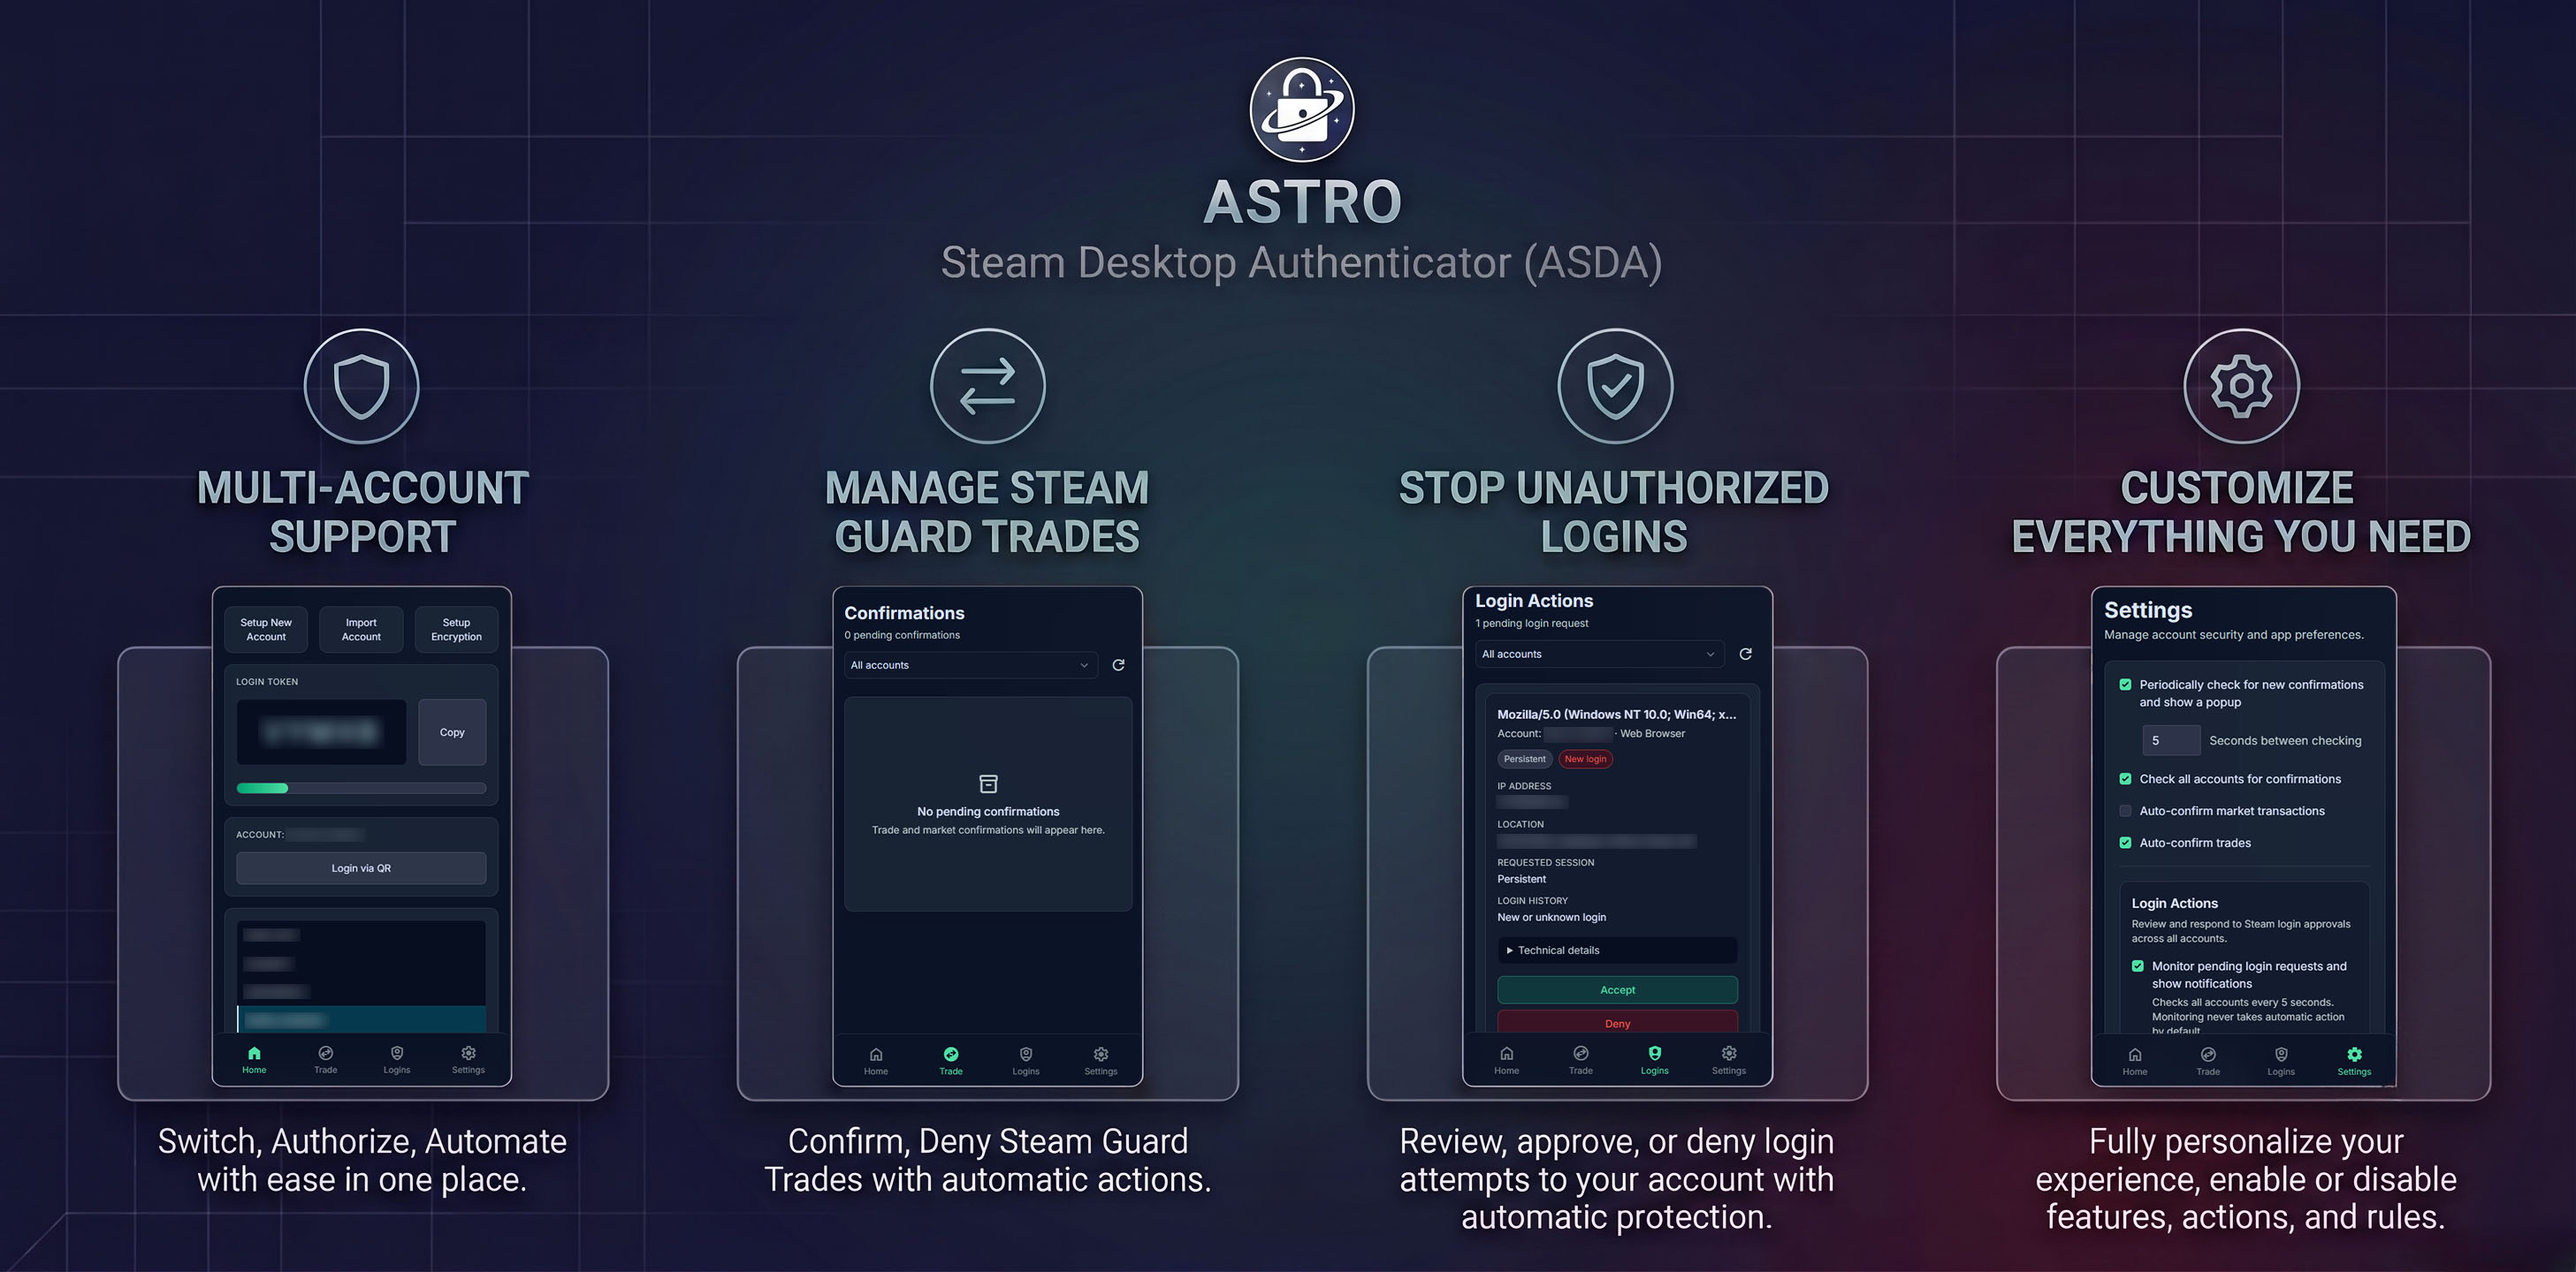
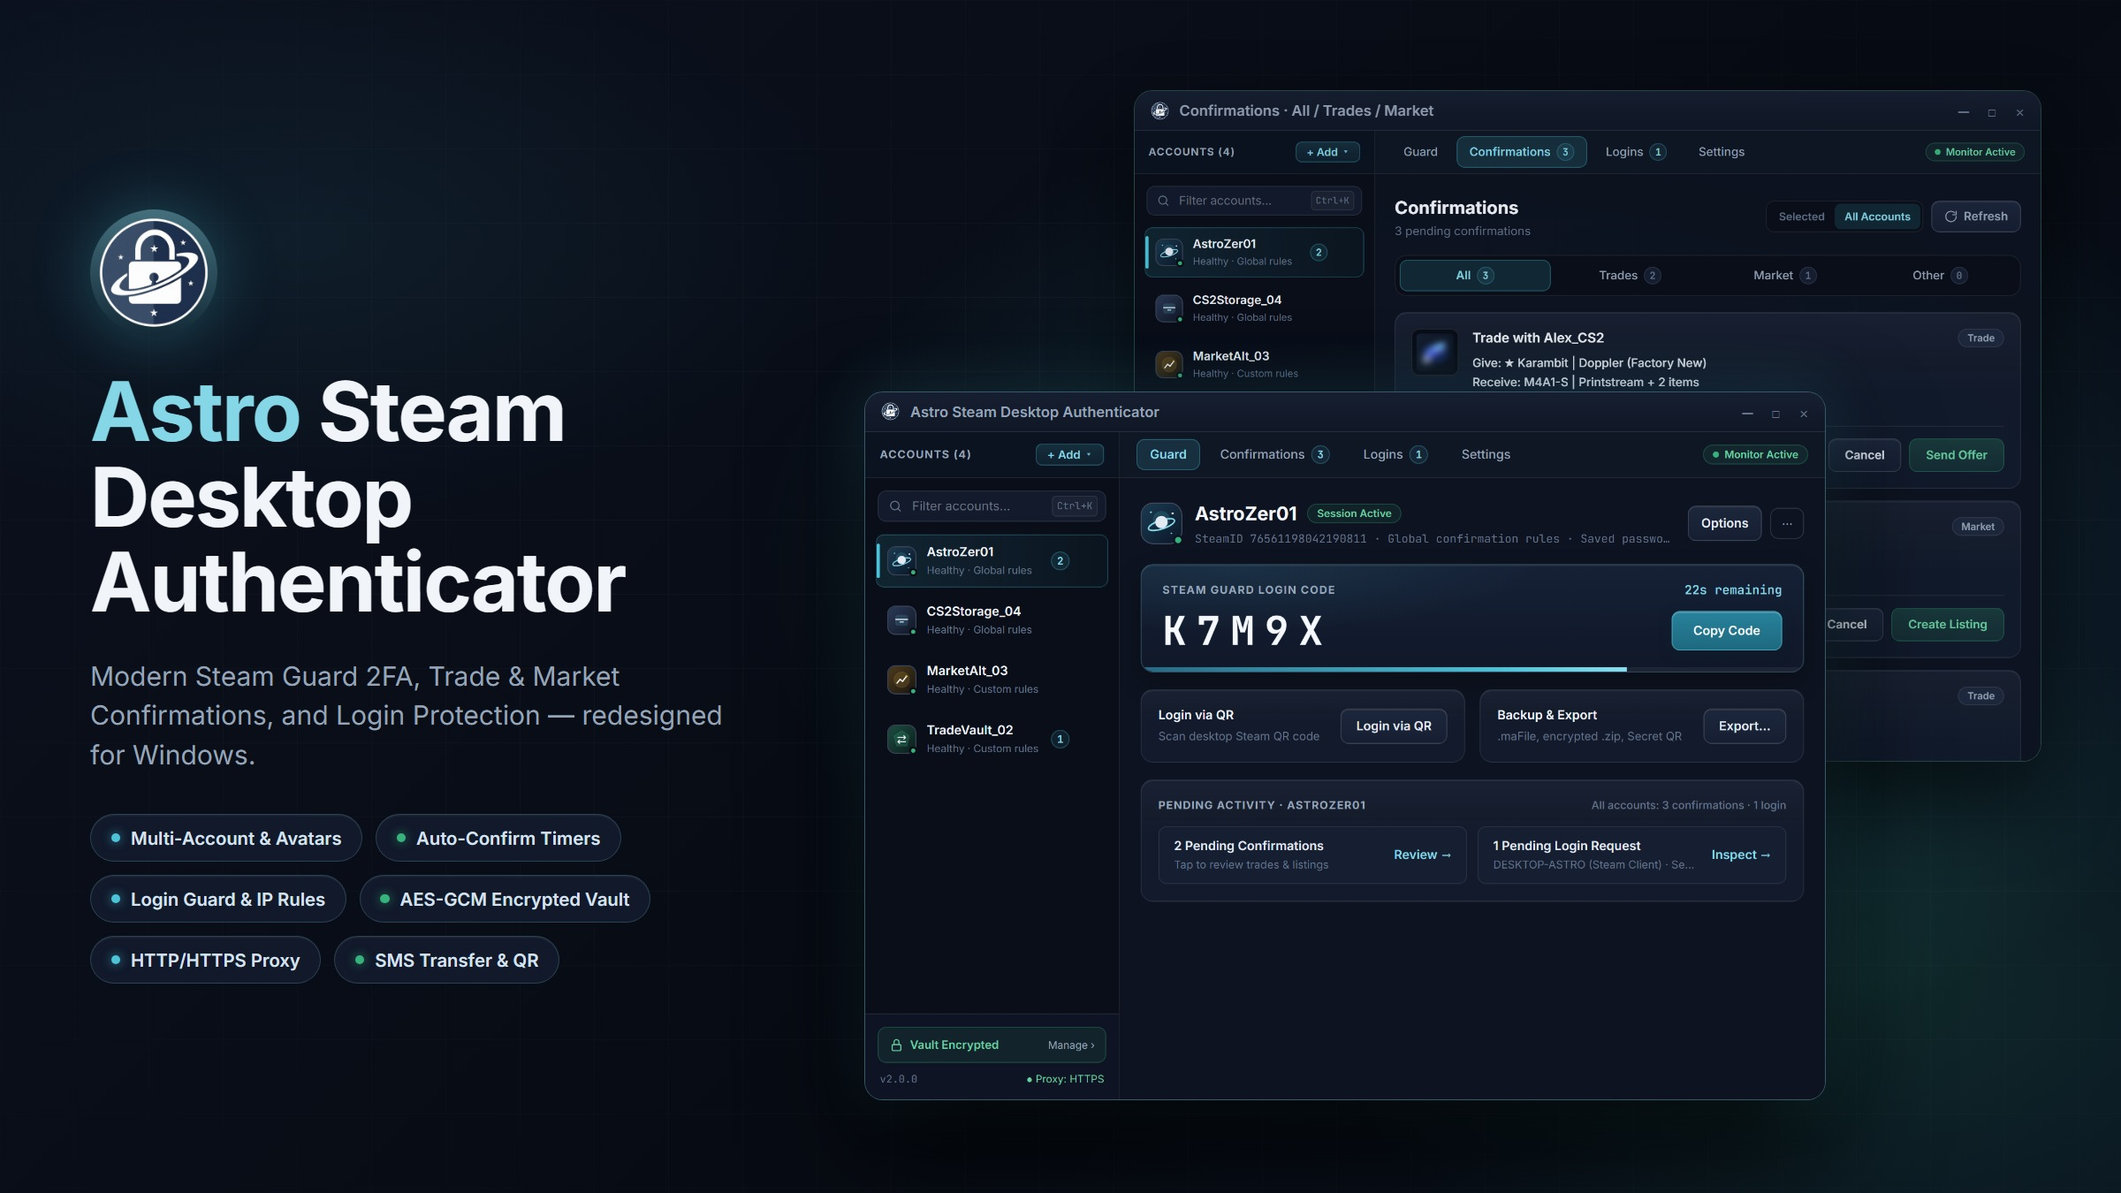
chore: prepare 2.0.0 release (#74)

diff --git a/Steam Desktop Authenticator/Properties/AssemblyInfo.cs b/Steam Desktop Authenticator/Properties/AssemblyInfo.cs
@@ -31,8 +31,8 @@ using System.Runtime.InteropServices;
 //
 // You can specify all the values or you can default the Build and Revision Numbers 
 // by using the '*' as shown below:
-[assembly: AssemblyVersion("1.4.0")]
-[assembly: AssemblyFileVersion("1.4.0")]
+[assembly: AssemblyVersion("2.0.0")]
+[assembly: AssemblyFileVersion("2.0.0")]
 
 [assembly: AssemblyMetadata("SquirrelAwareVersion", "1")]
 [assembly: System.Runtime.Versioning.SupportedOSPlatform("windows7.0")]

diff --git a/README.md b/README.md
@@ -1,11 +1,11 @@
 <h1 align="center">
-  <img src="ASDA-icon.png" height="64" width="64" />
+  <img src="ASDA-icon.png" height="64" width="64" alt="Astro Steam Desktop Authenticator Icon" />
   <br/>
   Astro Steam Desktop Authenticator
 </h1>
 
 <p align="center">
-  A modernized, actively maintained continuation of the Steam Desktop Authenticator app. Manage your Steam Guard 2FA, trade confirmations, and secure your account right from your desktop.
+  A modernized, actively maintained continuation of Steam Desktop Authenticator for Windows. Manage Steam Guard 2FA codes, Trade &amp; Market confirmations, login approvals, and multi-account automation right from your desktop.
 </p>
 
 <p align="center">
@@ -29,77 +29,105 @@
   <img src="github-banner.jpg" alt="Astro Steam Desktop Authenticator" />
 </p>
 
-## About This Project
-This is a continuation of the original [Steam Desktop Authenticator](https://github.com/Jessecar96/SteamDesktopAuthenticator) created by **Jessecar96**. Astro Steam Desktop Authenticator is an actively maintained fork that serves to keep the desktop authenticator tool functional, secure, and compatible with Steam's modern API changes. 
+---
 
-A reliable way to manage **Steam Guard**, handle **2FA (Two-Factor Authentication)**, and automatically accept or decline **trade confirmations** directly on you're pc without using a mobile phone.
-All credit for the original design and implementation goes to Jessecar96 and the original contributors.
+## About This Project
+
+**Astro Steam Desktop Authenticator (ASDA)** is an actively maintained continuation of the original [Steam Desktop Authenticator](https://github.com/Jessecar96/SteamDesktopAuthenticator) created by **Jessecar96**. It keeps the desktop authenticator functional, secure, and up to date with Steam's modern authentication and confirmation APIs.
+
+Manage **Steam Guard 2FA**, review or automate **Trade & Market confirmations**, and approve or deny **Steam login requests** directly on your PC without needing a mobile phone. All credit for the original design and foundation goes to Jessecar96 and the original contributors.
+
+---
 
 ## Key Features
 
-- **Steam Guard codes and account management** — view, copy, and manage Steam Guard authenticators for multiple accounts.
-- **Phone-free authenticator setup** — add an authenticator without entering a phone number when Steam allows it. If Steam requires phone verification for the account, the app clearly guides you through the email and SMS steps instead.
-- **Trade confirmations** — review and accept or decline pending confirmations across managed accounts.
-- **Login approvals** — review Steam login requests with device and location details, then approve or deny them manually. Optional account-wide rules can automatically approve persistent sign-ins or deny requests, with IP allowlisting controls.
-- **Proxy Support** — Use proxy when communicating with steam.
-- **Desktop notifications** — receive Windows notifications for pending trade confirmations and login requests, with navigation back to the relevant view.
+- **Redesigned Desktop Interface & Steam Avatars** — Modern slate-navy & glacier-teal desktop UI with a resizable split-pane layout, persistent multi-account sidebar with cached Steam profile avatars, quick `Ctrl+K` account filtering, compact mode, and a cascading system tray account switcher.
+- **Steam Guard 2FA & Account Management** — Generate, copy, and manage Steam Guard codes for multiple accounts, with vault encryption, session health indicators, and seamless expired-session renewal.
+- **Phone-Free Setup & SMS Authenticator Transfer** — Set up a new authenticator without a phone number when Steam allows it (with guided email/SMS steps when required), or transfer an existing Steam Guard Mobile Authenticator into ASDA via SMS with crash-safe recovery.
+- **Trade & Market Confirmations** — Filter confirmations across **All**, **Trades**, and **Market** tabs with framed Steam item thumbnails, non-blocking refresh, and configurable **per-account auto-confirm timers** backed by a progressive rate-limit-aware scheduler.
+- **Login Approvals & Protection Rules** — Review incoming Steam login requests with device, IP, and location details, then approve or deny manually or via automatic account rules with IP allowlisting.
+- **Opt-In Silent Re-Login & Encrypted Vault** — Store credentials in an opt-in AES-GCM encrypted store to automatically renew expired Steam sessions in the background, and rely on crash-safe, single-transaction canonical `.maFile` storage.
+- **Backup & Secret QR Export** — Export account backups and view/export authenticator secrets via a native QR dialog, plus tokenless `.maFile` import support.
+- **Proxy Support** — Route Steam and avatar traffic through HTTP or HTTPS proxies (with optional authentication, IPv6 support, and built-in proxy testing).
+- **Desktop Notifications & Update Checks** — Receive Windows notifications for pending confirmations and login requests, with optional automatic or manual update checks in Settings.
 
-## Version 1.3.0 Highlights
+---
 
-- **Reliable session recovery** - Renew expired Steam sessions without losing the account or its maFile.
-- **Safer account storage** - Stronger import, storage, and recovery safeguards help protect account data.
-- **Smoother multi-account use** - A cleaner scrollable account list and more dependable trade confirmations and login approvals.
+## Quick Start (Recommended)
 
-For a complete list of changes, see the [1.3.0 release notes](https://github.com/AstroZer01/Astro-Steam-Desktop-Authenticator/releases/tag/1.3.0).
+If you just want to run ASDA without compiling from source:
 
-## Build from Source on Windows
+1. Download the latest `ASDA-Release-*.zip` from the [**Releases page**](https://github.com/AstroZer01/Astro-Steam-Desktop-Authenticator/releases/latest).
+2. Extract the archive to a writable folder on your PC (avoid `Program Files`).
+3. Run `Steam Desktop Authenticator.exe`.
 
-The committed UI assets are included in a normal .NET publish, so Node.js is not required for an ordinary release build.
+> **Runtime requirements:** Windows 10 or 11 (64-bit), the [.NET 8 Desktop Runtime](https://dotnet.microsoft.com/download/dotnet/8.0), and the [Microsoft Edge WebView2 Runtime](https://developer.microsoft.com/microsoft-edge/webview2/#download-section) (pre-installed on Windows 11).
+
+---
+
+## Build from Source (Windows)
+
+The compiled UI stylesheet and fonts are committed to the repository, so **Node.js is not required** for a standard release build.
 
 ### Prerequisites
 
-- Windows 10 or later, 64-bit
+- **Windows 10 or 11 (64-bit)**
 - **[.NET 8 SDK](https://dotnet.microsoft.com/download/dotnet/8.0)**
+- **[Microsoft Edge WebView2 Runtime](https://developer.microsoft.com/microsoft-edge/webview2/#download-section)** (already included on Windows 11)
 
-To run the built application, install the .NET 8 Desktop Runtime if the SDK is not installed, and install the [Microsoft Edge WebView2 Runtime](https://developer.microsoft.com/microsoft-edge/webview2/#download-section).
+### Quick Build (Command Line)
 
-### Build a release package from Command Prompt
-
-1. Clone the repository and open the cloned folder:
+1. **Clone the repository:**
 
    ```powershell
    git clone https://github.com/AstroZer01/Astro-Steam-Desktop-Authenticator.git
    cd Astro-Steam-Desktop-Authenticator
    ```
 
-2. From the repository root, run this command in Command Prompt:
+2. **Publish the portable release package:**
 
-   ```bat
-   dotnet publish "Launcher\Launcher.csproj" -c Release -r win-x64 --self-contained false -p:PublishSingleFile=true -p:IncludeNativeLibrariesForSelfExtract=false -p:PublishTrimmed=false -p:EnableCompressionInSingleFile=false -p:DebugSymbols=false -o "publish\ASDA"
+   ```powershell
+   dotnet publish "Launcher\Launcher.csproj" -c Release -r win-x64 --self-contained false `
+     -p:PublishSingleFile=true -p:IncludeNativeLibrariesForSelfExtract=false `
+     -p:PublishTrimmed=false -p:EnableCompressionInSingleFile=false `
+     -p:DebugSymbols=false -o "publish\ASDA"
    ```
 
-   Close any copy of the app running from that folder before rebuilding so Windows can replace its executable. `dotnet publish` restores the required Windows x64 dependencies automatically and preserves an existing root `publish\ASDA\maFiles` folder.
+   *(Close any running instance from `publish\ASDA` before rebuilding. Existing `publish\ASDA\maFiles` data is preserved.)*
 
-3. When `dotnet publish` completes successfully, start:
+3. **Launch the app:**
 
-   ```text
-   publish\ASDA\Steam Desktop Authenticator.exe
+   ```powershell
+   .\publish\ASDA\Steam Desktop Authenticator.exe
    ```
 
-Keep the complete `publish\ASDA` folder together in a folder your Windows account can write to; do not install this portable package under `Program Files`. The root executable is the Launcher; it starts the real app from `publish\ASDA\bin`. The `bin` folder contains the WebView files and runtime dependencies, while the application creates `publish\ASDA\maFiles` beside the Launcher on first launch. Back up that `maFiles` folder securely.
+> **Portable folder structure:** Keep the entire `publish\ASDA` folder together in a writable directory (not `Program Files`). The root executable is the Launcher; it runs the main app from `bin\` and stores your accounts in `maFiles\` next to the Launcher on first run.
+
+### Other Build Options
 
 <details>
-<summary><h3>Build script</h3></summary>
+<summary><strong>Build with Visual Studio 2022</strong></summary>
 
-Save this as a `.bat` file. Set `PROJECT_ROOT` to the repository root and `OUTPUT` to the directory where you want the portable application built. The script preserves existing output data while rebuilding.
+1. Open `SteamDesktopAuthenticator.sln` in Visual Studio 2022.
+2. Switch the build configuration to **Release**.
+3. In Solution Explorer, right-click **Launcher** *(not `Steam Desktop Authenticator`)* and select **Publish**.
+4. Choose **Folder** → set the target location to `publish\ASDA` → set Target Runtime to **win-x64** and Deployment Mode to **Framework-dependent**.
+5. Under publish settings, enable **Produce single file**, keep trimming disabled, and click **Publish**.
+
+</details>
+
+<details>
+<summary><strong>Reusable Windows Build Script (.bat)</strong></summary>
+
+Save this as a `.bat` file, set `PROJECT_ROOT` to your cloned repo path and `OUTPUT` to your target folder, and run it whenever you want a clean rebuild without touching `maFiles`:
 
 ```bat
 @echo off
 setlocal EnableExtensions
 title Build Astro Steam Desktop Authenticator
 
-set "PROJECT_ROOT="
-set "OUTPUT="
+set "PROJECT_ROOT=C:\path\to\Astro-Steam-Desktop-Authenticator"
+set "OUTPUT=%PROJECT_ROOT%\publish\ASDA"
 
 cd /d "%PROJECT_ROOT%" || goto :failed
 
@@ -110,70 +138,51 @@ del /q "%OUTPUT%\*.pdb" "%OUTPUT%\*.xml" "%OUTPUT%\*.config" 2>nul
 del /q "%OUTPUT%\bin\*.pdb" "%OUTPUT%\bin\*.xml" "%OUTPUT%\bin\*.config" 2>nul
 
 echo.
-echo Compilation finished:
-echo %OUTPUT%
+echo Build completed: %OUTPUT%
 pause
 exit /b 0
 
 :failed
 echo.
-echo Compilation failed. Close any running copy of the app and try again.
+echo Build failed. Close any running copy of the app and try again.
 pause
 exit /b 1
 ```
 
-The build does not touch the manifest or `.maFile` files. When building or working on the project, make a secure backup of `manifest.json` and the `maFiles` folder so no data is lost. If you plan to commit to this repository, never include a manifest or `.maFile` file: they can expose account credentials and authenticator secrets.
-
 </details>
 
 <details>
-<summary><h3>Build with Visual Studio 2022</h3></summary>
+<summary><strong>UI Development (Tailwind CSS 4 — Contributors Only)</strong></summary>
 
-1. Open `SteamDesktopAuthenticator.sln`.
-2. Select the `Release` configuration.
-3. In Solution Explorer, right-click **Launcher** — not **Steam Desktop Authenticator** — then choose **Publish**.
-4. Select a **Folder** target. Use `publish\ASDA` as the target location and select **Windows x64** with **Framework-dependent** deployment.
-5. In publish settings, enable **Produce single file** and leave trimming disabled, then select **Publish**.
+Only needed if you modify HTML templates, `tailwind.config.js`, or `ui/tailwind-input.css`. Requires **[Node.js 22 LTS](https://nodejs.org/)**:
 
-Visual Studio's regular **Build** command places development output under `bin`; use **Publish** when you want the portable release folder described above.
+```powershell
+npm ci            # First time or after package-lock.json changes
+npm run build:ui  # Regenerates Steam Desktop Authenticator/ui/assets/css/app.css
+npm run check:ui  # Verifies the generated CSS matches what is committed
+```
+
+Commit the regenerated `Steam Desktop Authenticator/ui/assets/css/app.css` alongside your UI changes.
 
 </details>
 
-### UI stylesheet for contributors
-
-The WebView UI ships with committed, local CSS and fonts. Normal .NET builds use the committed `ui/assets/css/app.css` and do not require Node.js.
-
-After changing an HTML template, `tailwind.config.js`, or `ui/tailwind-input.css`, install **[Node.js 22 LTS](https://nodejs.org/)** and run:
+### Running Tests
 
 ```powershell
-npm ci # once after cloning or when package-lock.json changes
-npm run build:ui
+dotnet test SteamDesktopAuthenticator.sln -c Release
 ```
 
-Commit the resulting `Steam Desktop Authenticator/ui/assets/css/app.css` with the UI change.
+---
 
-- `npm run build:ui` regenerates `Steam Desktop Authenticator/ui/assets/css/app.css`.
-- `npm run check:ui` regenerates the stylesheet and fails if the generated file was not committed.
+## Roadmap
 
-The hook runs only when staged UI templates, the Tailwind configuration, or the Tailwind input stylesheet change. CI verifies the same invariant, and the release workflow regenerates the stylesheet before publishing.
-
-
-<p align="center">
-  ❕ Alternatively, download and run the latest release without building from source.<br>
-  <a href="https://github.com/AstroZer01/Astro-Steam-Desktop-Authenticator/releases/latest">
-    <img src="https://img.shields.io/github/v/release/AstroZer01/Astro-Steam-Desktop-Authenticator?label=Download%20Latest&style=for-the-badge&logo=windows" alt="Download Latest Release" />
-  </a>
-</p>
-
-
-## Current Focus & To-Do
-
-### To-Do List
-
-#### In Progress / Remaining
 - [ ] API endpoint for trading automation
 
-## Disclaimer
-We provide no warranty for using this tool. You use this program at your own risk, and accept the responsibility to make backups of your `maFiles` (which contain your 2FA secrets) and prevent unauthorized access to your computer.
+---
 
-**Notice:** Astro Steam Desktop Authenticator is an unofficial tool and is not affiliated with, endorsed by, or associated with Valve Corporation or the official Steam Guard in any way.
+## Security & Disclaimer
+
+- **Back up your `maFiles` folder and `manifest.json` securely.** They contain your 2FA secrets. Never commit them to a repository or share them with anyone.
+- This software is provided as-is with no warranty. You use it at your own risk and are responsible for safeguarding your backups and computer access.
+
+**Notice:** Astro Steam Desktop Authenticator is an unofficial open-source project and is not affiliated with, endorsed by, or associated with Valve Corporation or the official Steam Guard mobile app.
